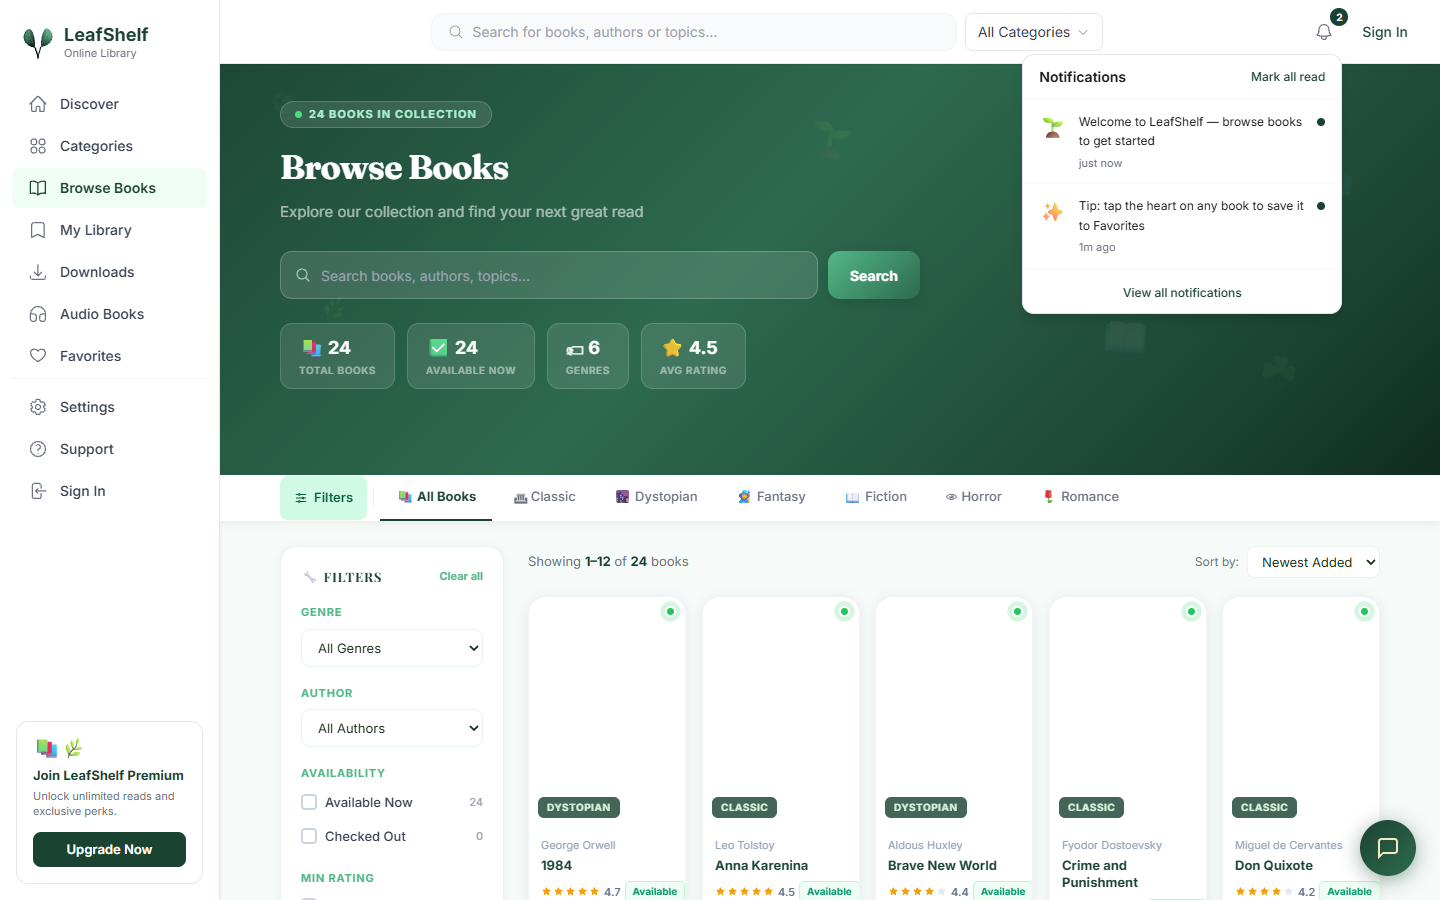
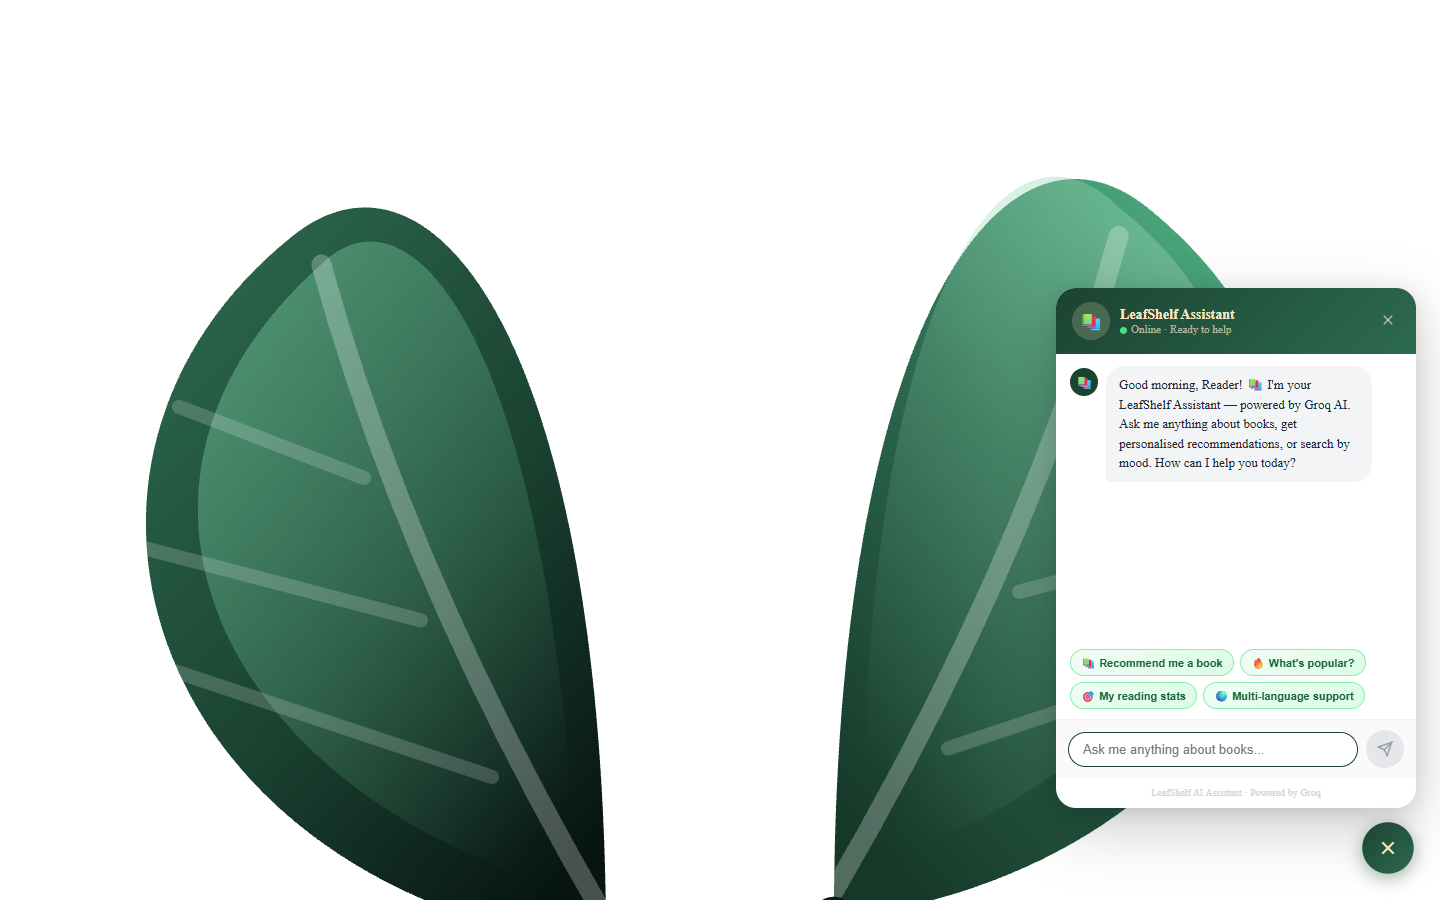
fix: chatbot and books crash on undefined array + correct chatbot screenshot

diff --git a/leafshelf-jee/client/src/components/ChatBot.tsx b/leafshelf-jee/client/src/components/ChatBot.tsx
@@ -480,7 +480,10 @@ export default function ChatBot() {
   const [messages, setMessages] = useState<Message[]>([]);
   const [input, setInput] = useState('');
   const [typing, setTyping] = useState(false);
-  const [allBooks, setAllBooks] = useState<Book[]>(() => readCached<Book[]>('books') ?? []);
+  const [allBooks, setAllBooks] = useState<Book[]>(() => {
+    const c = readCached<Book[]>('books');
+    return Array.isArray(c) ? c : [];
+  });
   const [unread, setUnread] = useState(0);
   const messagesEndRef = useRef<HTMLDivElement>(null);
   const inputRef = useRef<HTMLInputElement>(null);
@@ -490,7 +493,7 @@ export default function ChatBot() {
 
   useEffect(() => {
     if (allBooks.length === 0) {
-      void listBooks().then(b => setAllBooks(b)).catch(() => null);
+      void listBooks().then(b => setAllBooks(Array.isArray(b) ? b : [])).catch(() => null);
     }
   }, [allBooks.length]);
 

diff --git a/leafshelf-jee/client/src/pages/Books.tsx b/leafshelf-jee/client/src/pages/Books.tsx
@@ -219,7 +219,7 @@ export default function Books() {
     Promise.all([listBooks(params), listCategories()])
       .then(([b, cats]) => {
         if (!alive) return;
-        setBooks(b); setCategories(cats);
+        setBooks(Array.isArray(b) ? b : []); setCategories(Array.isArray(cats) ? cats : []);
         writeCached(cacheKey, b);
         writeCached('books:categories', cats);
         setApiError(null);
